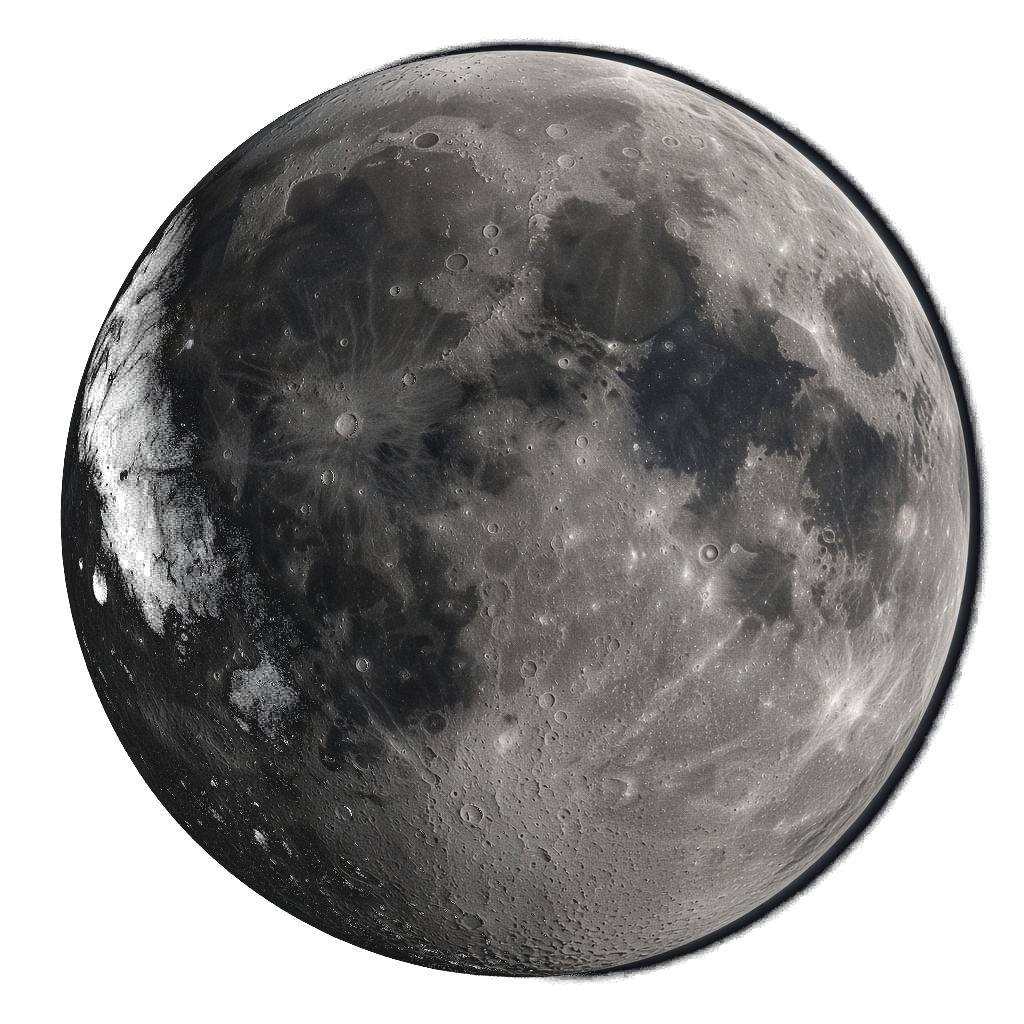
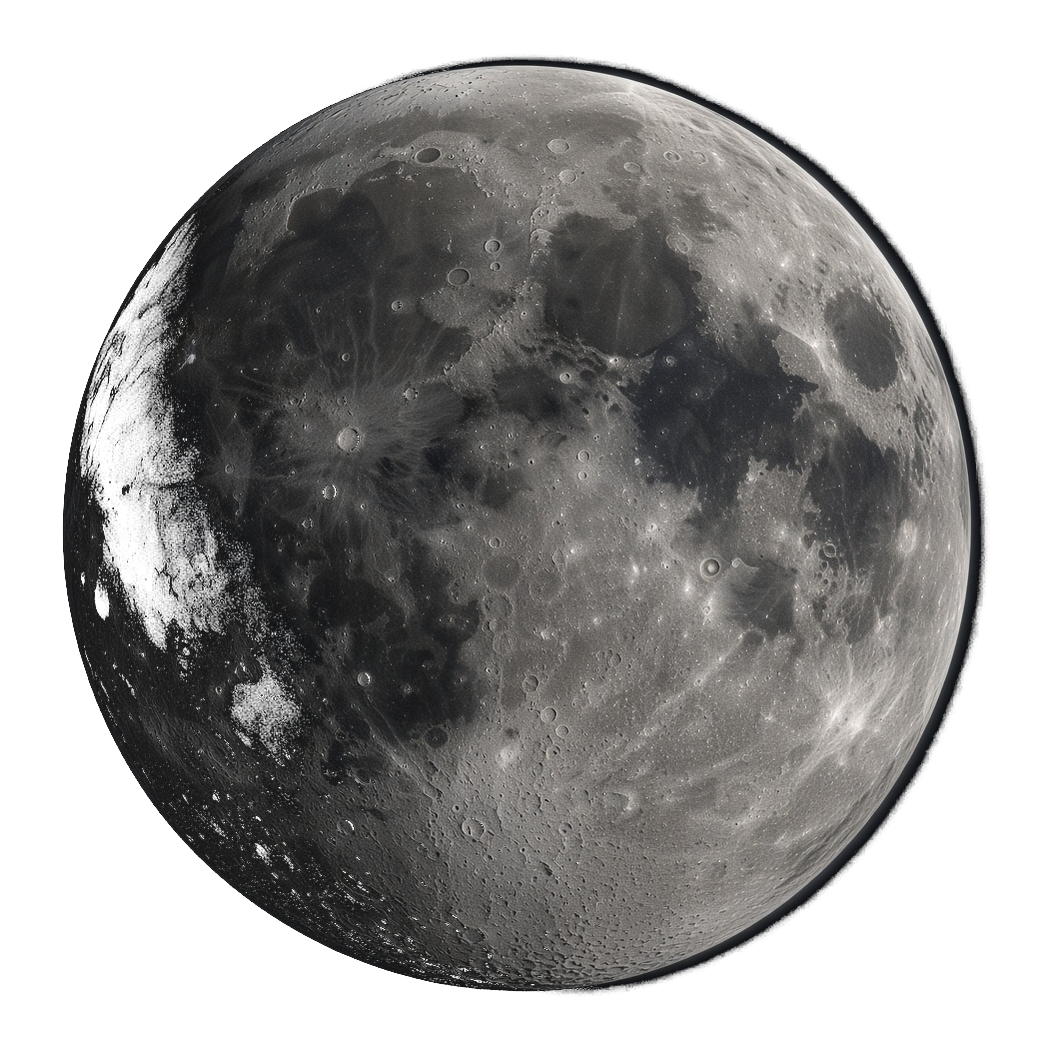
fix(hero): turn the moon and sun like the earth film
The horizon stays fixed at the earth line while the surface slides and the sky drifts behind it. Side planets, including the sun, share one height and one size.

Changed region(s): [[0.0625, 0.0312, 0.9688, 0.9688], [0.25, 0.375, 0.375, 0.5], [0.0938, 0.625, 0.125, 0.6875]]

diff --git a/src/marketing/components/SpaceHero.css b/src/marketing/components/SpaceHero.css
@@ -41,13 +41,12 @@
 .space-sky::after { content: ''; position: absolute; inset: 0; background: linear-gradient(180deg, rgba(5, 10, 20, .64), rgba(5, 10, 20, .58) 54%, rgba(5, 10, 20, .78)); pointer-events: none; }
 .space-sky video { position: absolute; inset: 0; width: 100%; height: 100%; object-fit: cover; display: block; opacity: 0; transition: opacity .22s linear; }
 .space-sky video.is-active { opacity: 1; }
-.space-stars { position: absolute; inset: -16%; background-size: cover; background-position: center; background-repeat: no-repeat; animation: space-stars 14s ease-in-out infinite alternate; pointer-events: none; }
-.space-orb { position: absolute; z-index: 1; left: 50%; width: 240vw; height: 240vw; bottom: calc(46vh - 240vw); margin-left: -120vw; border-radius: 50%; overflow: hidden; pointer-events: none; }
-.space-orb img { width: 100%; height: 100%; object-fit: cover; animation: space-orb-spin 26s linear infinite; }
-.space-sun-plate { position: absolute; inset: -18%; background-size: cover; background-position: center 78%; background-repeat: no-repeat; animation: space-stars 12s ease-in-out infinite alternate; pointer-events: none; }
-.space-planet img[data-planet="sun"].is-shown { transform: scale(1.14); transform-origin: center; }
-@keyframes space-stars { from { transform: translate3d(-5%, -3%, 0); } to { transform: translate3d(5%, 4%, 0); } }
-@keyframes space-orb-spin { to { transform: rotate(360deg); } }
+.space-stars { position: absolute; inset: -10%; background-size: cover; background-position: center; background-repeat: no-repeat; animation: space-stars 26s ease-in-out infinite alternate; pointer-events: none; }
+.space-orb { position: absolute; z-index: 1; left: 50%; top: 56%; width: 220vw; height: 220vw; margin-left: -110vw; border-radius: 50%; overflow: hidden; pointer-events: none; }
+.space-orb.is-sun { box-shadow: 0 -28px 70px rgba(228, 176, 92, .42); }
+.space-orb img { position: absolute; top: 0; left: 0; width: 128%; height: 100%; max-width: none; object-fit: cover; animation: space-surface 16s ease-in-out infinite alternate; }
+@keyframes space-stars { from { transform: translate3d(-2.5%, -1.2%, 0); } to { transform: translate3d(2.5%, 1.6%, 0); } }
+@keyframes space-surface { from { transform: translateX(0); } to { transform: translateX(-21.5%); } }
 .space-ui { position: absolute; inset: 0; z-index: 3; }
 .space-copy { position: absolute; inset: 0; transform: translateY(var(--vshift)); pointer-events: none; }
 .space-copy a, .space-planet { pointer-events: auto; }
@@ -73,8 +72,9 @@
 .space-planet img.is-shown { display: block; }
 .space-planet:hover { transform: scale(1.045); }
 .space-planet:active { transform: scale(.99); }
-.space-planet-l { width: calc(143 * var(--u)); left: calc(-69.5 * var(--u)); top: calc(-38.3 * var(--u)); }
-.space-planet-r { width: calc(143 * var(--u)); right: calc(-64.7 * var(--u)); top: calc(-40.6 * var(--u)); }
+.space-planet-l, .space-planet-r { top: calc(-39.4 * var(--u)); width: calc(143 * var(--u)); }
+.space-planet-l { left: calc(-69.5 * var(--u)); }
+.space-planet-r { right: calc(-64.7 * var(--u)); }
 .space-label { position: absolute; top: calc(33 * var(--u)); color: #e0edff; font-family: var(--space-serif); font-size: calc(17.8 * var(--u)); font-weight: 400; letter-spacing: calc(4.6 * var(--u)); line-height: 1; white-space: nowrap; }
 .space-label-l { left: calc(111 * var(--u)); }
 .space-label-r { right: calc(104 * var(--u)); }
@@ -122,8 +122,9 @@
   .space-cta > a { min-width: calc(188 * var(--u)); height: calc(62 * var(--u)); font-size: calc(15 * var(--u)); }
   .space-secondary-actions { top: calc(75 * var(--u)); flex-direction: column; gap: calc(8 * var(--u)); }
   .space-secondary-actions a, .space-ended { font-size: calc(13.5 * var(--u)); }
-  .space-planet-l { width: calc(89 * var(--u)); left: calc(-44.5 * var(--u)); top: calc(-18.3 * var(--u)); }
-  .space-planet-r { width: calc(89 * var(--u)); right: calc(-44.5 * var(--u)); top: calc(-18.3 * var(--u)); }
+  .space-planet-l, .space-planet-r { top: calc(-18.3 * var(--u)); width: calc(89 * var(--u)); }
+  .space-planet-l { left: calc(-44.5 * var(--u)); }
+  .space-planet-r { right: calc(-44.5 * var(--u)); }
   .space-label { top: calc(31 * var(--u)); font-size: calc(15 * var(--u)); }
   .space-label-l { left: calc(58 * var(--u)); }
   .space-label-r { right: calc(58 * var(--u)); }
@@ -151,8 +152,8 @@
 }
 @media (prefers-reduced-motion: reduce) {
   .space-sky video { display: none; }
-  .space-stars, .space-orb img, .space-sun-plate { animation: none; }
-  .space-stars, .space-sun-plate { inset: 0; }
+  .space-stars, .space-orb img { animation: none; }
+  .space-stars { inset: 0; }
   .space-planet { transition: none; }
   .space-planet:hover, .space-planet:active { transform: none; }
 }

diff --git a/src/marketing/components/SpaceHero.tsx b/src/marketing/components/SpaceHero.tsx
@@ -123,15 +123,14 @@ export function SpaceHero() {
   return (
     <section ref={rootRef} className="space-hero" aria-labelledby="space-hero-title" dir="ltr">
       <div className="space-sky" style={current.video ? { backgroundImage: `url(${current.poster})` } : undefined}>
-        {current.id === 'moon' ? (
+        {current.stars ? (
           <>
             <div className="space-stars" style={{ backgroundImage: `url(${current.stars})` }} />
-            <div className="space-orb">
+            <div className={`space-orb${current.id === 'sun' ? ' is-sun' : ''}`}>
               <img src={current.cutout} alt="" />
             </div>
           </>
         ) : null}
-        {current.id === 'sun' ? <div className="space-sun-plate" style={{ backgroundImage: `url(${current.poster})` }} /> : null}
         {PLANETS.map((planet) => planet.video ? (
           <video
             key={planet.id}
